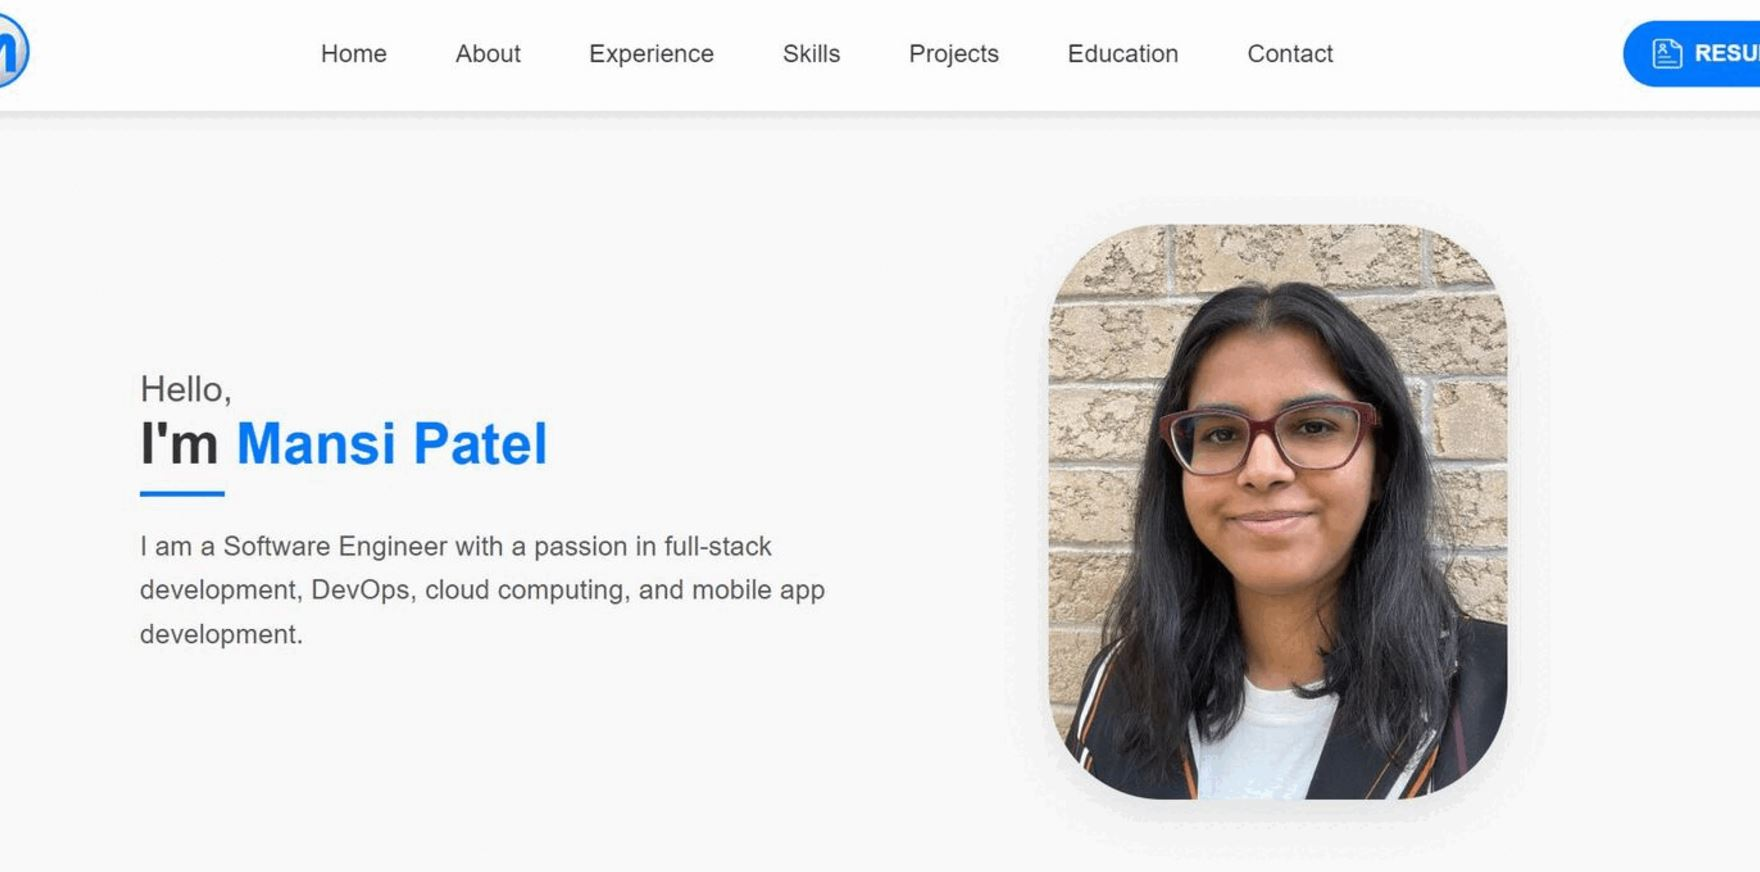
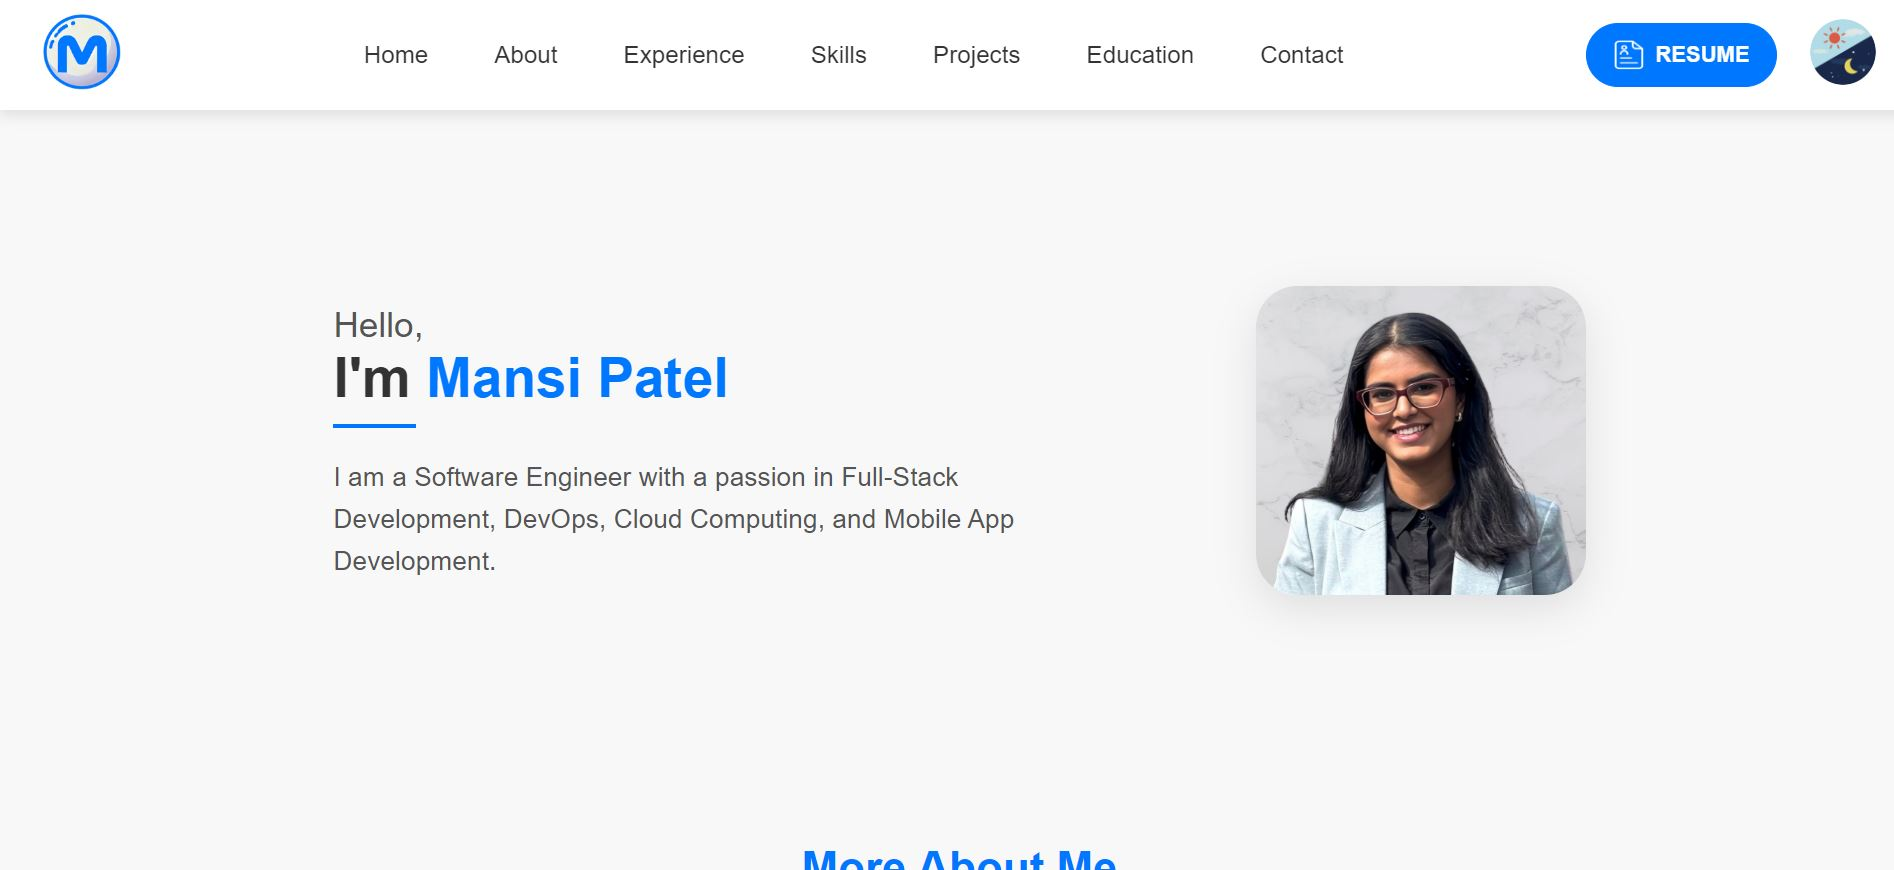
Updates to projects, skills, home, and experience sections

diff --git a/src/components/Projects/projects.js b/src/components/Projects/projects.js
@@ -17,7 +17,7 @@ import LibraryManagement from '../../img/projects/librarymanagement.gif';
 import LibraryManagementThumb from '../../img/projects/librarymanagement.JPG';
 // 5
 import EmotionDetection from '../../img/projects/emotiondetection.gif';
-import EmotionDetectionThumb from '../../img/about/emotiondetection.png';
+import EmotionDetectionThumb from '../../img/projects/emotiondetection.png';
 // 6
 import Bizpoints from '../../img/projects/bizpoints.gif';
 import BizpointsThumb from '../../img/projects/bizpoints.JPG';
@@ -55,7 +55,7 @@ const projects = [
     },
     {
         title: "Emotion Detection Application",
-        githubLink: "https://github.com/mansjp/EmotionDetectionApp",
+        githubLink: "https://github.com/mansijp/EmotionDetectionApp",
         skills: [[PythonLogo, "Python"], [CSS3Logo,"CSS3"], [HTML5Logo,"HTML5"], [GitLogo, "Git"]],
         description: [
             "Developed a Python based emotion detection application with a pre-trained deep learning model.",
@@ -79,7 +79,7 @@ const projects = [
     },
     {
         title: "Library Management System",
-        githubLink: "https://github.com/mansijp/Library-Management-System",
+        githubLink: "https://github.com/mansijp/LMS_CAPSTONE_2025/",
         skills: [[PythonLogo, "Python"], [FastAPILogo, "FastAPI"], [CSS3Logo, "CSS3"], [HTML5Logo, "HTML5"], [FigmaLogo, "Figma"], [MongoDBLogo, "MongoDB"], [DockerLogo, "Docker"], [KubernetesLogo, "Kubernetes"], [GKELogo, "Google Cloud"]],          
         description: [
             <>
@@ -87,7 +87,13 @@ const projects = [
             </>,
             "Developing a libray management system to reduce manual efforts and errors with customer or catalog management and administration.",
             "Implementing a microservice architecture with FastAPI applications and static HTML and CSS web pages.",
-            "Deploying on a cloud environment using Docker images, Kubernetes clusters, and the Google Kubernetes Engine on GCloud."
+            "Deploying on a cloud environment using Docker images, Kubernetes clusters, and the Google Kubernetes Engine on GCloud.",
+            <>
+                Access the application here: {" "}
+                <a id="project-link" href="https://34.47.39.132/auth" target="_blank" rel="noopener noreferrer">
+                    <br/><b>Library Management System</b>
+                </a>
+            </>
         ],
         image: LibraryManagement,
         staticImage: LibraryManagementThumb
@@ -114,7 +120,7 @@ const projects = [
             "Won the Cybersecurity Award from the Level-Up Socity hackathon for innovation and gamified solution to prevent phishing attacks.",
             <>
                 Pitched project and idea to judges:{" "}
-                <a href="https://www.youtube.com/watch?v=r7kYrnl168w" target="_blank" rel="noopener noreferrer">
+                <a id="project-link" href="https://www.youtube.com/watch?v=r7kYrnl168w" target="_blank" rel="noopener noreferrer">
                     <br/><b>Phish-Me Presentation | YT</b>
                 </a>
             </>

diff --git a/src/components/Education/education.js b/src/components/Education/education.js
@@ -17,7 +17,7 @@ const Education = () => {
                         <p className="education-title">Computer Engineering, B.Eng</p>
                         <p className="education-subtitle">Toronto Metropolitan University <i>(formerly Ryerson University)</i></p>
                         <p className="education-description">
-                            <b><u>Courses:</u></b> Computer Vision, Digital Systems Engineering, Software Project Management, Computer Networks, Intelligent Systems
+                            <b><u>Courses:</u></b> Computer Vision, Digital Systems Engineering, Software Project Management, Computer Networks, Intelligent Systems, Distributed Systems & Cloud Computing
                             <br/><b><u>Activities:</u></b> Computer Representative - RECESS, Operations Committee - RESS
                         </p>
                         <p className="education-duration">Expected Graduation: May 2025</p>

diff --git a/src/components/Skills/skills.js b/src/components/Skills/skills.js
@@ -33,6 +33,7 @@ import FastAPILogo from '../../img/skills/fastapi.png';
 import FlaskLogo from '../../img/skills/flask.png';
 import NetlifyLogo from '../../img/skills/netlify.png';
 import MyBatisLogo from '../../img/skills/mybatis.png';
+import AzureLogo from '../../img/skills/azure.png';
 
 const Skills = () => {
 
@@ -91,6 +92,10 @@ const Skills = () => {
                         <div className='skill-item'>
                             <img className='skill-img' src={NetlifyLogo} alt="Netlify Logo" />
                             <p className='skill-text'>Netlify</p>
+                        </div>
+                        <div className='skill-item'>
+                            <img className='skill-img' src={AzureLogo} alt="Azure Logo" />
+                            <p className='skill-text'>Azure</p>
                         </div>
                     </div>
                 );

diff --git a/src/components/Home/home.js b/src/components/Home/home.js
@@ -1,6 +1,6 @@
 import React from 'react';
 import './home.css';
-import MansiPatel from '../../img/home/mansi.jpg';
+import MansiPatel from '../../img/home/mansi.png';
 
 const Home = () => {
     return (
@@ -11,8 +11,8 @@ const Home = () => {
                     <span className="intro">I'm <span className="name">Mansi Patel</span></span><br/>
                     <hr id="line"/>
                     <p className="intro-text">
-                        I am a Software Engineer with a passion in full-stack development, DevOps,
-                        cloud computing, and mobile app development.
+                        I am a Software Engineer with a passion in Full-Stack Development, DevOps,
+                        Cloud Computing, and Mobile App Development.
                     </p>
                 </div>
                 <div className="profile-container">

diff --git a/src/components/Home/home.css b/src/components/Home/home.css
@@ -71,7 +71,7 @@
 
 .profile {
     width: 15rem;
-    border-radius: 80px;
+    border-radius: 30px;
     box-shadow: 0 10px 30px rgba(0, 0, 0, 0.1);
     transition: transform 0.3s ease, box-shadow 0.3s ease;
 }

diff --git a/src/components/Projects/projects.css b/src/components/Projects/projects.css
@@ -127,6 +127,10 @@
     margin: 0 0 2rem 0;    
 }
 
+#project-link {
+    color: #0077ff;
+}
+
 @media (max-width: 450px) {
     .project-card{
         width: 90%;
